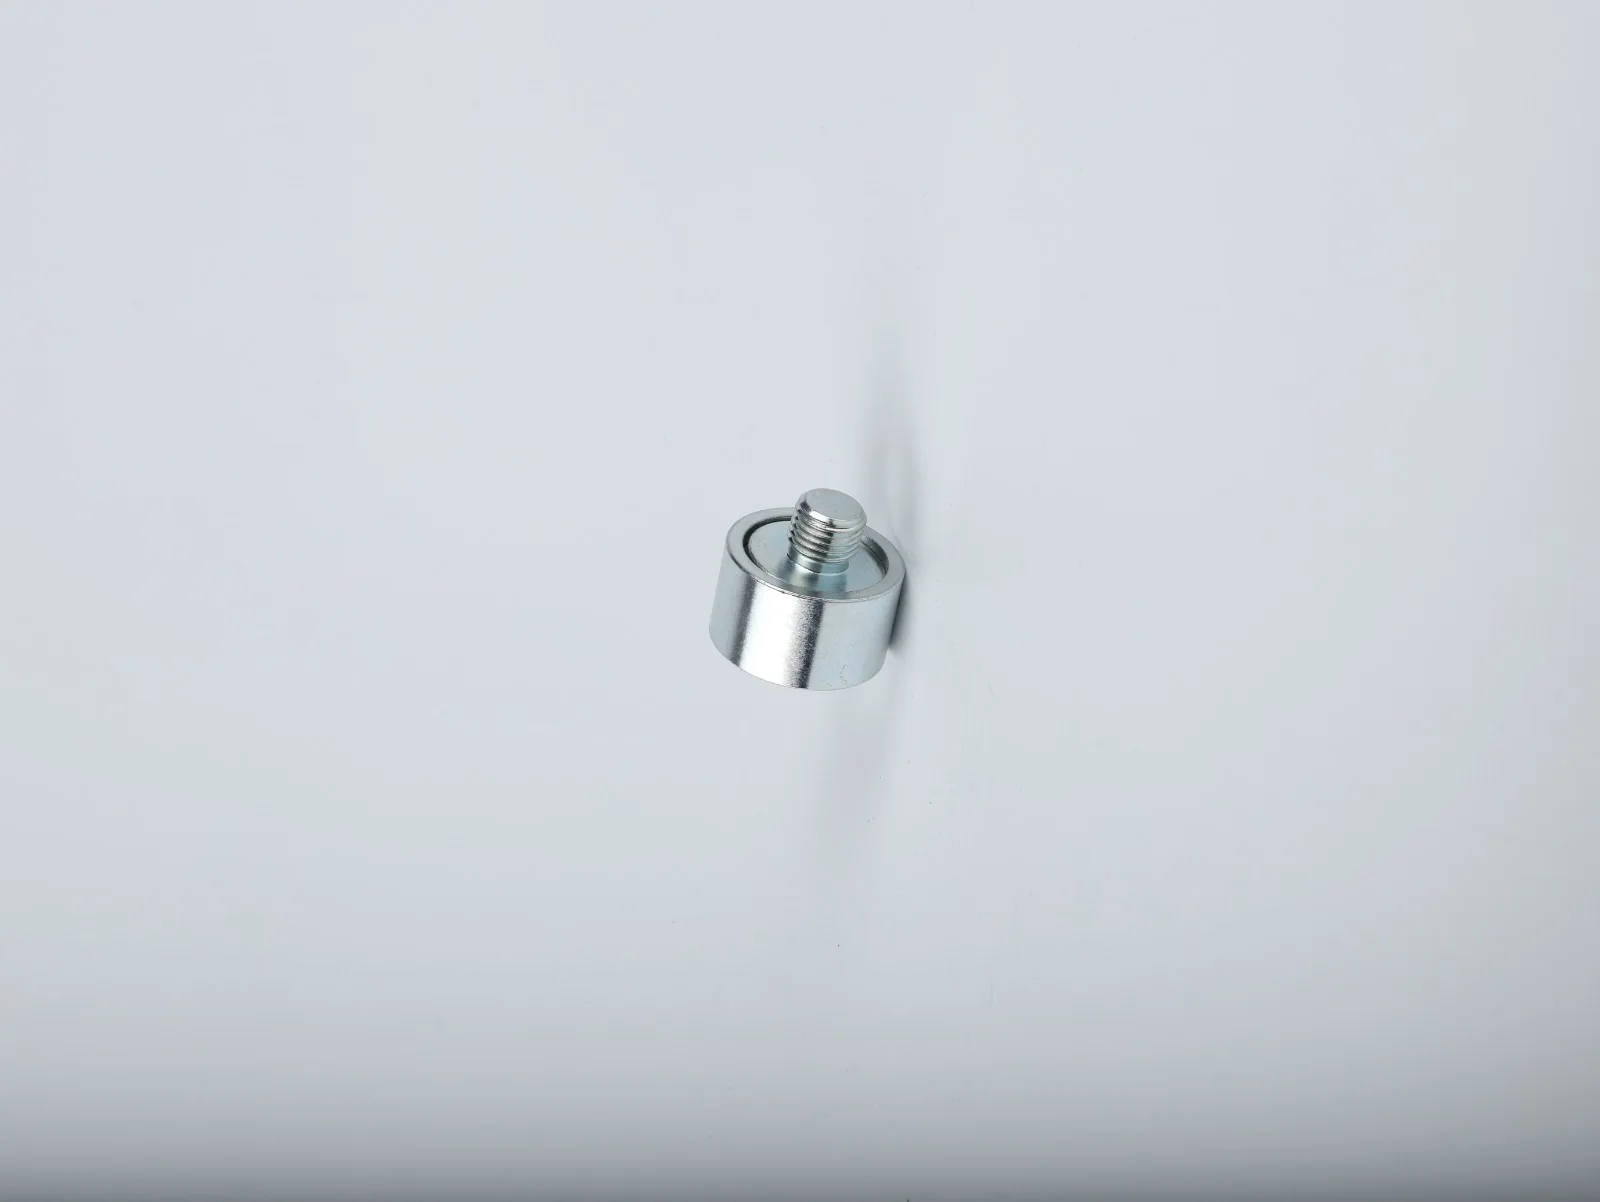
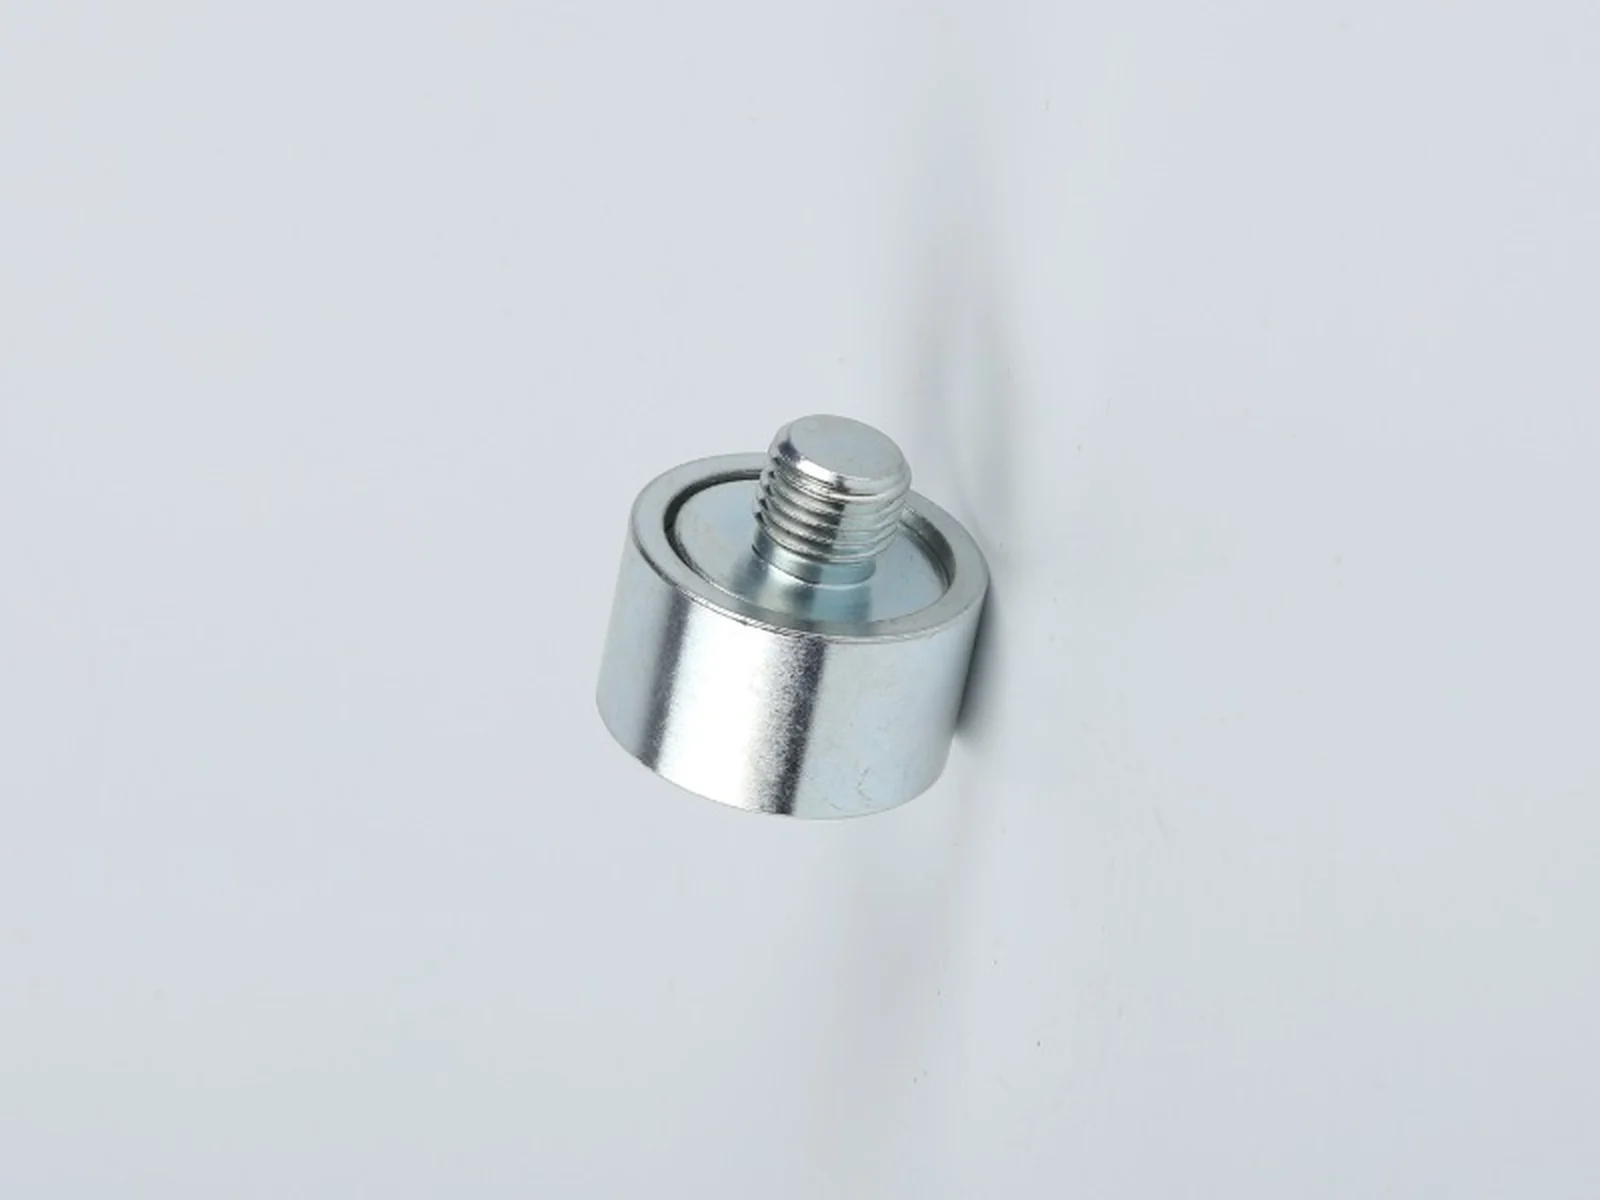
CVS demo: ürün görüntüleyicide fotoğraflar tam sığıyor, aksesuar fotoğrafları kırpıldı
Claude-Session: https://claude.ai/code/session_011VG5XS2mcMQ6xYf8kKB7By

Changed region(s): [[0.0, 0.7708, 1.0, 1.0], [0.375, 0.3083, 0.6562, 0.6783]]

diff --git a/urunler.html b/urunler.html
@@ -126,7 +126,7 @@
     <div class="pm-thumbs"></div>
   </div>
 </div>
-<script>window.CVS_URUNLER=[{"p":[["u1-1",1600,1202],["u1-2",1600,1202],["u1-3",1600,1202],["u1-4",1600,1202],["u1-5",1600,1202],["u1-6",1600,1202]],"m":{"rb":0.3,"hb":0.82,"cr":0.5,"ch":0.36,"gasket":1,"ring":"bayonet","body":"hslots","label":1,"cap":"plastic"}},{"p":[["u2-1",1600,1202],["u2-2",1600,1202],["u2-3",1600,1202],["u2-4",1600,1202],["u2-5",1600,1202],["u2-6",1600,1202]],"m":{"rb":0.27,"hb":0.95,"cr":0.47,"ch":0.3,"gasket":1,"flange":1,"ring":"plain","body":"spiral","label":1,"cap":null}},{"p":[["u3-1",1600,1202],["u3-2",1600,1202],["u3-3",1600,1202],["u3-4",1600,1202],["u3-5",1600,1202]],"m":{"rb":0.26,"hb":0.85,"cr":0.36,"ch":0.46,"gasket":0,"ring":"thread","body":"holes","label":1,"cap":null,"wall":0.07}},{"p":[["u4-1",1600,1202],["u4-2",1600,1202],["u4-3",1600,1202],["u4-4",1600,1202]],"m":{"rb":0.26,"hb":0.8,"cr":0.36,"ch":0.36,"gasket":0,"ring":"plain","body":"holes","label":1,"cap":"flip","wall":0.07}},{"p":[["u5-1",1600,1202],["u5-2",1600,1202],["u5-3",1600,1202],["u5-4",1600,1202],["u5-5",1600,1202],["u5-6",1600,1202]],"m":{"rb":0.32,"hb":0.8,"cr":0.46,"ch":0.3,"gasket":1,"ring":"plain","body":"hslots","label":1,"ptfe":1,"cap":"screw","ext":1}},{"p":[["u6-1",1600,1202],["u6-2",1600,1202],["u6-3",1600,1202],["u6-4",1600,1202],["u6-5",1600,1202]],"m":{"rb":0.29,"hb":0.7,"cr":0.36,"ch":0.12,"gasket":0,"ring":"plain","body":"mixed","label":0,"sleeve":1,"ext":1,"cap":null,"wall":0.06}},{"p":[["u7-1",1600,1202],["u7-2",1600,1202],["u7-3",1600,1202],["u7-4",1600,1202]],"m":{"rb":0.27,"hb":0.8,"cr":0.42,"ch":0.46,"gasket":0,"ring":"plain","body":"holes","label":1,"cap":"lock"}},{"p":[["u8-1",1600,1202],["u8-2",1600,1202],["u8-3",1600,1202],["u8-4",1600,1202],["u8-5",1600,1202]],"m":{"rb":0.25,"hb":0.95,"cr":0.31,"ch":0.12,"gasket":0,"ring":"plain","body":"lattice","label":0,"sleeve":1,"ext":1,"cap":null,"wall":0.05}},{"p":[["u9-1",1600,1202],["u9-2",1600,1202],["u9-3",1600,1202],["u9-4",1600,1202]],"m":null}];</script>
+<script>window.CVS_URUNLER=[{"p":[["u1-1",1600,1202],["u1-2",1600,1202],["u1-3",1600,1202],["u1-4",1600,1202],["u1-5",1600,1202],["u1-6",1600,1202]],"m":{"rb":0.3,"hb":0.82,"cr":0.5,"ch":0.36,"gasket":1,"ring":"bayonet","body":"hslots","label":1,"cap":"plastic"}},{"p":[["u2-1",1600,1202],["u2-2",1600,1202],["u2-3",1600,1202],["u2-4",1600,1202],["u2-5",1600,1202],["u2-6",1600,1202]],"m":{"rb":0.27,"hb":0.95,"cr":0.47,"ch":0.3,"gasket":1,"flange":1,"ring":"plain","body":"spiral","label":1,"cap":null}},{"p":[["u3-1",1600,1202],["u3-2",1600,1202],["u3-3",1600,1202],["u3-4",1600,1202],["u3-5",1600,1202]],"m":{"rb":0.26,"hb":0.85,"cr":0.36,"ch":0.46,"gasket":0,"ring":"thread","body":"holes","label":1,"cap":null,"wall":0.07}},{"p":[["u4-1",1600,1202],["u4-2",1600,1202],["u4-3",1600,1202],["u4-4",1600,1202]],"m":{"rb":0.26,"hb":0.8,"cr":0.36,"ch":0.36,"gasket":0,"ring":"plain","body":"holes","label":1,"cap":"flip","wall":0.07}},{"p":[["u5-1",1600,1202],["u5-2",1600,1202],["u5-3",1600,1202],["u5-4",1600,1202],["u5-5",1600,1202],["u5-6",1600,1202]],"m":{"rb":0.32,"hb":0.8,"cr":0.46,"ch":0.3,"gasket":1,"ring":"plain","body":"hslots","label":1,"ptfe":1,"cap":"screw","ext":1}},{"p":[["u6-1",1600,1202],["u6-2",1600,1202],["u6-3",1600,1202],["u6-4",1600,1202],["u6-5",1600,1202]],"m":{"rb":0.29,"hb":0.7,"cr":0.36,"ch":0.12,"gasket":0,"ring":"plain","body":"mixed","label":0,"sleeve":1,"ext":1,"cap":null,"wall":0.06}},{"p":[["u7-1",1600,1202],["u7-2",1600,1202],["u7-3",1600,1202],["u7-4",1600,1202]],"m":{"rb":0.27,"hb":0.8,"cr":0.42,"ch":0.46,"gasket":0,"ring":"plain","body":"holes","label":1,"cap":"lock"}},{"p":[["u8-1",1600,1202],["u8-2",1600,1202],["u8-3",1600,1202],["u8-4",1600,1202],["u8-5",1600,1202]],"m":{"rb":0.25,"hb":0.95,"cr":0.31,"ch":0.12,"gasket":0,"ring":"plain","body":"lattice","label":0,"sleeve":1,"ext":1,"cap":null,"wall":0.05}},{"p":[["u9-1",1600,1200],["u9-2",1600,1200],["u9-3",1600,1200],["u9-4",1600,1200]],"m":null}];</script>
 
 <!-- ======== 01 TIR VE KAMYON ======== -->
 <section id="tir" style="background:var(--bg2)">

diff --git a/assets/site.css b/assets/site.css
@@ -728,3 +728,4 @@ footer .cols a[href^="tel:"]{font-family:var(--fd);font-weight:400!important;fon
 }
 @media (max-width:360px){.hdr-actions .btn{display:none}}
 main,.hero,section{overflow-x:clip}
+.pm-stage .pm-photo{width:100%!important;height:100%!important;max-width:none;object-fit:contain}
